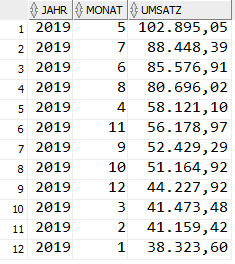
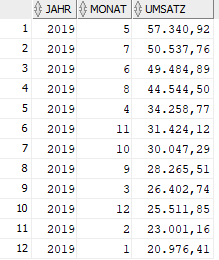
wip

diff --git a/home/lv/dmdb/ab/ab-02.html b/home/lv/dmdb/ab/ab-02.html
@@ -143,8 +143,8 @@ is_slide: 0
 <h2 class="ic-neg15">SQL07 - Monatsweiser Umsatz</h2>
 <!------------------------------------------------------------------------------------>
 <p class="w3-large">
-    Umsatz 'Lima Gartensessel' über alle Monate des Jahres 2019.<br>
-    Umsatz ist Summe über die Spalte "Gesamtpreis" in Tabelle "Bestellung".<br>
+    Umsatz 'Lima Gartensessel' über alle Monate des Jahres 2019.
+    Umsatz ist Summe von Einzeplreis * Menge der Bestellpositionen.
     Absteigend sortiert nach Umsatz.
 </p>
 <img class="w3-image" src="/home/lv/dmdb/a/ab2/q21.png">